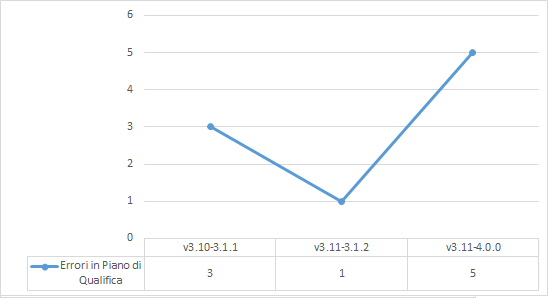
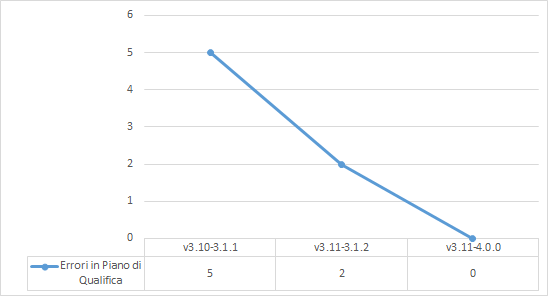
docs: modifica sezione 4

diff --git a/esterni/piano-di-qualifica/components/4-specifiche-dei-test.tex b/esterni/piano-di-qualifica/components/4-specifiche-dei-test.tex
@@ -161,11 +161,11 @@ Garantiscono il corretto funzionamento di ogni componente del sistema quando vie
   \multicolumn{3}{c}{\textit{Continua alla pagina successiva}}
   \endfoot%
   \endlastfoot%
-  \textbf{TI1} & Si verifica il corretto caricamento del file CSV nel programma. & Non Implementato \\
-  \textbf{TI2} & Si verifica la correttezza del grafico che viene visualizzato una volta caricato i dati. & Non Implementato \\
-  \textbf{TI3} & Si verifica la correttezza dei coefficenti calcolati. & Non Implementato \\
-  \textbf{TI4} & Si verifica la correttezza della struttura del file JSON una volta salvato. & Non Implementato \\
-  \textbf{TI5} & Si verifica che il plug-in di Grafana carichi correttamente i dati. & Non Implementato \\
+  \textbf{TI1} & Si verifica il corretto caricamento del file CSV nel programma. & Implementato \\
+  \textbf{TI2} & Si verifica la correttezza del grafico che viene visualizzato una volta caricato i dati. & Implementato \\
+  \textbf{TI3} & Si verifica la correttezza dei coefficenti calcolati. & Implementato \\
+  \textbf{TI4} & Si verifica la correttezza della struttura del file JSON una volta salvato. & Implementato \\
+  \textbf{TI5} & Si verifica che il plug-in di Grafana carichi correttamente i dati. & Implementato \\
 
 \end{longtable}
 
@@ -191,32 +191,32 @@ Garantiscono il corretto funzionamento di ogni minimo componente autonomo del si
   \endlastfoot%
   \textbf{TU1} & Viene verificato il corretto avviamento dell'applicazione & Implementato \\
   \textbf{TU2} & Viene verificata la corretta lettura dei dati del file CVS inserito dall'utente & Implementato \\
-  \textbf{TU3} & Viene verificata la corretta lettura dei dati del file predittore inserito dall'utente & Non Implementato \\
-  \textbf{TU4} & Viene verificato che il costruttore dalla View costruisca la View come definito & Non Implementato \\
-  \textbf{TU5} & Viene verificato che la funzione bindFileChange(handler) della View venga eseguita correttamente quando viene aggiunto un nuovo file CVS & Non Implementato \\
-  \textbf{TU6} & Viene verificato che la funzione bindLoadPredictor(handler) della View venga eseguita correttamente quando viene aggiunto un nuovo file predittore & Non Implementato \\
-  \textbf{TU7} & Viene verificato che la funzione bindFormSubmit(handler) della View venga eseguita correttamente quando viene cliccato il pulsante "Salva" & Non Implementato \\
+  \textbf{TU3} & Viene verificata la corretta lettura dei dati del file predittore inserito dall'utente & Implementato \\
+  \textbf{TU4} & Viene verificato che il costruttore dalla View costruisca la View come definito & Implementato \\
+  \textbf{TU5} & Viene verificato che la funzione bindFileChange(handler) della View venga eseguita correttamente quando viene aggiunto un nuovo file CVS & Implementato \\
+  \textbf{TU6} & Viene verificato che la funzione bindLoadPredictor(handler) della View venga eseguita correttamente quando viene aggiunto un nuovo file predittore & Implementato \\
+  \textbf{TU7} & Viene verificato che la funzione bindFormSubmit(handler) della View venga eseguita correttamente quando viene cliccato il pulsante "Salva" & Implementato \\
   \textbf{TU8} & Viene verificato che la funzione addRlLine(coeff, min, max) della View venga eseguita correttamente per creare la retta della regressione lineare & Non Implementato \\
   \textbf{TU9} & Viene verificato che la funzione buildPage(json) della View venga eseguita correttamente per ricaricare la pagina in caso di modifiche alle opzioni di selezione da parte dell'utente & Non Implementato \\
   \textbf{TU10} & Viene verificato che la funzione showContent() della View cambi correttamente lo stato di visibilità di un elemento della form & Implementato \\
   \textbf{TU11} & Viene verificato che la funzione showChart() della View cambi correttamente lo stato di visibilità del grafico generato & Implementato \\
-  \textbf{TU12} & Viene verificato che la funzione hideContent() della View cambi correttamente lo stato di visibilità di un elemento della form & Non Implementato \\
-  \textbf{TU13} & Viene verificato che la funzione hideChart() della View cambi correttamente lo stato di visibilità del grafico generato & Non Implementato \\
-  \textbf{TU14} & Viene verificato che la funzione initSelectTarget(json) della View inserisca correttamente la variabile target & Non Implementato \\
-  \textbf{TU15} & Viene verificato che la funzione initVars(json) della View inserisca correttamente la variabili contenute nel file CVS & Implementato \\
+  \textbf{TU12} & Viene verificato che la funzione hideContent() della View cambi correttamente lo stato di visibilità di un elemento della form & Implementato \\
+  \textbf{TU13} & Viene verificato che la funzione hideChart() della View cambi correttamente lo stato di visibilità del grafico generato & Implementato \\
+  \textbf{TU14} & Viene verificato che la funzione initSelectTarget(json) della View inserisca correttamente la variabile target & Implementato \\
+  \textbf{TU15} & Viene verificato che la funzione initVars(json) della View inserisca correttamente la variabili contenute nel file CVS & Non Implementato \\
   \textbf{TU16} & Viene verificato che la funzione addVar(key) della View inserisca correttamente le label delle variabili all'interno dell'interfaccia grafica & Implementato \\
-  \textbf{TU17} & Viene verificato che la funzione addTarget(key) della View specifichi correttamente quale variabile è stata selezionata come target & Non Implementato \\
+  \textbf{TU17} & Viene verificato che la funzione addTarget(key) della View specifichi correttamente quale variabile è stata selezionata come target & Implementato \\
   \textbf{TU18} & Viene verificato che la funzione getTarget() della View ritorni correttamente quale variabile è stata selezionata come target & Implementato \\
   \textbf{TU19} & Viene verificato che la funzione getVars() della View ritorni correttamente quali variabili sono state selezionate dall'utente & Implementato \\
   \textbf{TU20} & Viene verificato che la funzione setNotes(notes) della View inserisca correttamente le note inserite dall'utente & Implementato \\
-  \textbf{TU21} & Viene verificato che la funzione showError(message) della View mostri il messaggio di errore corretto per un qualsiasi caso & Non Implementato \\
-  \textbf{TU22} & Viene verificato che la funzione reset() della View resetti la form dell'interfaccia grafica & Implementato \\
+  \textbf{TU21} & Viene verificato che la funzione showError(message) della View mostri il messaggio di errore corretto per un qualsiasi caso & Implementato \\
+  \textbf{TU22} & Viene verificato che la funzione reset() della View resetti la form dell'interfaccia grafica & Non Implementato \\
   \textbf{TU23} & Viene verificato che la funzione getNotes() della View ritorni le note inserite dall'utente & Implementato \\
   \textbf{TU24} & Viene verificato che la funzione updateChart() della View aggiorni correttamente il grafico & Non Implementato \\
   \textbf{TU25} & Viene verificato che la funzione getChartX() della View ritorni i dati dell'asse X & Implementato \\
   \textbf{TU26} & Viene verificato che la funzione getChartY() della View ritorni i dati dell'asse Y & Implementato \\
-  \textbf{TU27} & Viene verificato che la funzione getChartTargetArray() della View ritorni i dati della variabile target presi dal grafico & Non Implementato \\
-  \textbf{TU28} & Viene verificato che la funzione setChartData(x, y, target, xLabel, yLabel, model) della View inserisca correttamente i nuovi dati nel grafico & Non Implementato \\
+  \textbf{TU27} & Viene verificato che la funzione getChartTargetArray() della View ritorni i dati della variabile target presi dal grafico & Implementato \\
+  \textbf{TU28} & Viene verificato che la funzione setChartData(x, y, target, xLabel, yLabel, model) della View inserisca correttamente i nuovi dati nel grafico & Implementato \\
   \textbf{TU29} & Viene verificato che il costruttore dal Controller definisca correttamente i bind con la View & Non Implementato \\
   \textbf{TU30} & Viene verificato che la funzione handleFileChanged(path) del Controller venga attivata dopo l'esecuzione della funzione bindFileChange(handler) della View & Non Implementato \\
   \textbf{TU31} & Viene verificato che la funzione handleFormSubmit(keys, meta) del Controller venga attivata dopo l'esecuzione della funzione bindFormSubmit(handler) della View & Non Implementato \\
@@ -226,22 +226,22 @@ Garantiscono il corretto funzionamento di ogni minimo componente autonomo del si
   \textbf{TU35} & Viene verificato che la funzione getDataByFilter(param) del Model ritorni i dati filtrati per certi parametri & Non Implementato \\
   \textbf{TU36} & Viene verificato che la funzione loadPredictor(path) del Model carichi i dati di un predittore in un oggetto JSONFile & Non Implementato \\
   \textbf{TU37} & Viene verificato che la funzione get notes() del Model ritorni le note contenuto nel modello dei dati & Implementato \\
-  \textbf{TU38} & Viene verificato che la funzione get json() del Model ritorni il file JSON salvato & Non Implementato \\
-  \textbf{TU39} & Viene verificato che la funzione calculatePredictor(data, meta) del Model ritorni correttamente le informazioni con i dati allenati & Non Implementato \\
+  \textbf{TU38} & Viene verificato che la funzione get json() del Model ritorni il file JSON salvato & Implementato \\
+  \textbf{TU39} & Viene verificato che la funzione calculatePredictor(data, meta) del Model ritorni correttamente le informazioni con i dati allenati & Implementato \\
   \textbf{TU40} & Viene verificato che la funzione savePredictor(pred) del Model salvi correttamente il file predittore sul computer dell'utente & Non Implementato \\
   \textbf{TU41} & Viene verificato che quando viene estesa l'interfaccia modelTrain, venga restituito un errore nel caso non sia stato implementato il metodo executeTraining(data) & Non Implementato \\
   \textbf{TU42} & Viene verificato che il costruttore di RLadapter instanzi correttamente l'oggetto di tipo regressione & Implementato \\
-  \textbf{TU43} & Viene verificato che la funzione calculateMatrixDimensions(data) di RLadapter ritorni la corretta dimensione della matrice dei dati & Non Implementato \\
-  \textbf{TU44} & Viene verificato che la funzione libAdaptation(data, matrix, reg) di RLadapter inserisca correttamente i dati di predizione all'interno dell'oggetto di regressione lineare & Non Implementato \\
-  \textbf{TU45} & Viene verificato che la funzione generateRLOutput(data, coefficients) di RLadapter ritorni correttamente i dati allenati e conformi per l'inserimento nel predittore & Non Implementato \\
-  \textbf{TU46} & Viene verificato che la funzione executeTraining(data) di RLadapter ritorni correttamente i dati allenati & Non Implementato \\
-  \textbf{TU47} & Viene verificato che il costruttore di SVMadapter instanzi correttamente l'oggetto di tipo svm & Non Implementato \\
-  \textbf{TU48} & Viene verificato che la funzione calculateMatrixDimensions(data) di SVMadapter ritorni la corretta dimensione della matrice dei dati & Non Implementato \\
-  \textbf{TU49} & Viene verificato che la funzione splitData(data,matrix) di SVMadapter dividi correttamente i dati tra variabili e labels & Non Implementato \\
-  \textbf{TU50} & Viene verificato che la funzione executeTraining(data) di SVMadapter ritorni correttamente i dati allenati & Non Implementato \\
-  \textbf{TU51} & Viene verificato che la funzione bindFormSubmit(handler) della View esponga il messaggio di errore 'Target cannot be in variables list' nel caso la variabile selezionata non possa essere target  & Non Implementato \\
-  \textbf{TU52} & Viene verificato che la funzione bindFormSubmit(handler) della View esponga il messaggio di errore 'Select at least one valid variable' nel caso si fosse selezionato varie variabili ma non quella target  & Non Implementato \\
-  \textbf{TU53} & Viene verificato che la funzione bindFormSubmit(handler) della View esponga il messaggio di errore 'Select a target' nel caso non si selezioni una variabile target  & Non Implementato \\
+  \textbf{TU43} & Viene verificato che la funzione calculateMatrixDimensions(data) di RLadapter ritorni la corretta dimensione della matrice dei dati & Implementato \\
+  \textbf{TU44} & Viene verificato che la funzione libAdaptation(data, matrix, reg) di RLadapter inserisca correttamente i dati di predizione all'interno dell'oggetto di regressione lineare & Implementato \\
+  \textbf{TU45} & Viene verificato che la funzione generateRLOutput(data, coefficients) di RLadapter ritorni correttamente i dati allenati e conformi per l'inserimento nel predittore & Implementato \\
+  \textbf{TU46} & Viene verificato che la funzione executeTraining(data) di RLadapter ritorni correttamente i dati allenati & Implementato \\
+  \textbf{TU47} & Viene verificato che il costruttore di SVMadapter instanzi correttamente l'oggetto di tipo svm & Implementato \\
+  \textbf{TU48} & Viene verificato che la funzione calculateMatrixDimensions(data) di SVMadapter ritorni la corretta dimensione della matrice dei dati & Implementato \\
+  \textbf{TU49} & Viene verificato che la funzione splitData(data,matrix) di SVMadapter dividi correttamente i dati tra variabili e labels & Implementato \\
+  \textbf{TU50} & Viene verificato che la funzione executeTraining(data) di SVMadapter ritorni correttamente i dati allenati & Implementato \\
+  \textbf{TU51} & Viene verificato che la funzione bindFormSubmit(handler) della View esponga il messaggio di errore 'Target cannot be in variables list' nel caso la variabile selezionata non possa essere target  & Implementato \\
+  \textbf{TU52} & Viene verificato che la funzione bindFormSubmit(handler) della View esponga il messaggio di errore 'Select at least one valid variable' nel caso si fosse selezionato varie variabili ma non quella target  & Implementato \\
+  \textbf{TU53} & Viene verificato che la funzione bindFormSubmit(handler) della View esponga il messaggio di errore 'Select a target' nel caso non si selezioni una variabile target & Implementato \\
   \textbf{TU54} & Viene verificato che si visualizzi un messaggio di errore nel caso in cui il caricamento del file JSON nel plug-in non vada a buon fine & Implementato \\
   \textbf{TU55} & Viene verificato che si visualizzi un messaggio di errore nel caso in cui nel plug-in non venga selezionato alcun file JSON & Implementato \\
   \textbf{TU56} & Viene verificato che si visualizzi un messaggio quando il caricamento del file JSON nel plug-in è andato a buon fine & Implementato \\

diff --git a/esterni/piano-di-qualifica/components/attivita/attivita-ra.tex b/esterni/piano-di-qualifica/components/attivita/attivita-ra.tex
@@ -84,7 +84,7 @@ Il suo indice di Gulpease si è assestato sul valore 72.
 
 \paragraph{Piano di Progetto}
 \label{sub:piano_di_progetto}
-Il \textsc{Piano di Progetto v1.9-4.2.0} ha subito parecchie modifiche che hanno richiesto molte fasi di verifica e approvazione che hanno sanato tutti gli errori.
+Il \textsc{Piano di Progetto v1.9-4.2.0}
 Il suo indice di Gulpease è aumentato di 1 rispetto alla fase di sviluppo precedente.
 
 \rowcolors{2}{white!80!lightgray!90}{white}
@@ -118,8 +118,8 @@ Il suo indice di Gulpease è aumentato di 1 rispetto alla fase di sviluppo prece
 
 \paragraph{Analisi dei Requisiti}
 \label{sub:analisi_dei_requisiti}
-Le principali modifiche all'\textsc{Analisi dei Requisiti v1.9-1.3.0} riguardano l'aggiunta di nuovi casi d'uso e la modifica alla numerazione di certi requisiti, sono quindi state svolte solo 2 verifiche e approvazioni del documento.
-Il suo indice di Gulpease è rimasto invariato rispetto alla fase di sviluppo precedente.
+Nell'\textsc{Analisi dei Requisiti v3.11-1.4.0} sono state apportate modifiche sono a pochi casi d'uso il che non ha richiesto grandi fasi di verifica e approvazione.
+L'indice di Gulpease del documento è comunque sceso di un punto restando a 72.
 
 \rowcolors{2}{white!80!lightgray!90}{white}
 \renewcommand{\arraystretch}{2} % allarga le righe con dello spazio sotto e sopra
@@ -130,24 +130,12 @@ Il suo indice di Gulpease è rimasto invariato rispetto alla fase di sviluppo pr
   \rowcolor{lightgray}
   {\textbf{Documento}} & {\textbf{Risultato indice}} & {\textbf{Errori presenti}} & {\textbf{Esito indice}} & {\textbf{Esito errori}}  \\
   \endhead%
-  \textbf{Analisi dei Requisiti v1.9-1.3.0} &  73              & 0               & Soddisfatto & Soddisfatto \\
-  \caption{Risultati metriche per l'Analisi dei Requisiti v1.9-1.3.0}
+  \textbf{Analisi dei Requisiti v3.11-1.4.0} &  72              & 0               & Soddisfatto & Soddisfatto \\
+  \caption{Risultati metriche per l'Analisi dei Requisiti v3.11-1.4.0}
   \label{tab:my-table}
 \end{longtable}
 
-\begin{figure}[H]
-  \centering
-  \includegraphics[width=10cm]{img/erroriAdRv1.9-1.3.0.png}
-  \label{fig:errori_adr}
-  \caption{Grafico errori per \textsc{Analisi dei Requisiti v1.9-1.3.0}}
-\end{figure}
-
-\begin{figure}[H]
-  \centering
-  \includegraphics[width=10cm]{img/gulpeaseAdrv1.9-1.3.0.png}
-  \label{fig:gulpease_adr}
-  \caption{Grafico indice di Gulpease per \textsc{Analisi dei Requisiti v1.9-1.3.0}}
-\end{figure}
+L'\textsc{Analisi dei Requisiti v3.11-1.4.0} non presenta grafici in quanto è stata effettuata una sola approvazione del documento finale.
 
 
 \paragraph{Glossario}

diff --git a/esterni/piano-di-qualifica/components/A-attivita-di-verifica.tex b/esterni/piano-di-qualifica/components/A-attivita-di-verifica.tex
@@ -28,7 +28,9 @@ Come per i precedenti periodi, gli errori rilevati verranno trattati nella sezio
 
 \subsection{Quarto periodo (RA)}
 \label{sub:terzo_periodo}
-Nella quarta parte del progetto sono state attuate verifiche.
+Nella quarta parte del progetto sono state attuate verifiche per correggere errori, rilevati nei documenti e nei prodotti, nella revisione precedente.
+Sono state quindi attuate modifiche volte alla correzione e al miglioramento di tali errori e/o mancanze, cercando di migliorare alcuni aspetti riguardanti i contenuto dei documenti e di migliorare la fase di test del prodotto finale.
+Come per i precedenti periodi, gli errori rilevati verranno trattati nella sezione appendice §B del documento.
 \subfile{attivita/attivita-ra.tex}
 
 \end{document}
